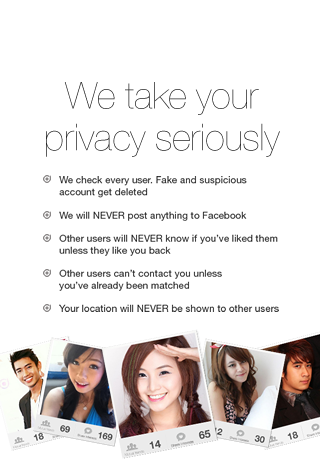
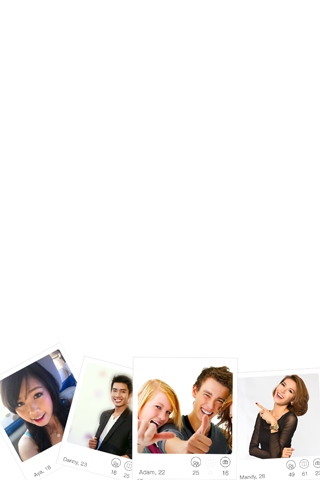
chinh sua trans text trong hind sang text thong thuong (info + tutorial)

diff --git a/oakclubbuild/TutorialViewController.m b/oakclubbuild/TutorialViewController.m
@@ -77,6 +77,7 @@
     }
 
     cycle.delegate = self;
+    [cycle refreshScrollView];
     [self.view addSubview:cycle];
     [self.view sendSubviewToBack:cycle];
     [self.view bringSubviewToFront:pageControl];
@@ -85,7 +86,8 @@
 
 -(void)cycleScrollViewDelegate:(CycleScrollView *)cycleScrollView customizeImageView:(TapDetectingImageView *)imageView atIndex:(int)index
 {
-    
+    [self transText:index :imageView];
+
 }
 
 - (void)didReceiveMemoryWarning
@@ -118,4 +120,123 @@
     [appDelegate.rootVC setLeftViewController:leftController];
     appDelegate.window.rootViewController = appDelegate.rootVC;
 }
+
+-(void) transText: (int) index: (TapDetectingImageView *)image {
+    
+    switch (index) {
+        case 0:
+        {
+            UILabel *content1Label = [[UILabel alloc] init];
+            UILabel *content2Label = [[UILabel alloc] init];
+            UILabel *content3Label = [[UILabel alloc] init];
+            
+            [content1Label setText: @""];
+            [content2Label setText: @""];
+            [content3Label setText: @""];
+            NSString *content1String = [@"Swipe photo right\nto LIKE a profile" localize];
+            NSString *content2String = [@"Swipe photo left\nto REJECT a profile" localize];
+            NSString *content3String = [@"Or just use REJECT / LIKE\nbuttons below" localize];
+            
+            
+            [content1Label setLineBreakMode: NSLineBreakByCharWrapping];
+            [content1Label setNumberOfLines: 2];
+            [content1Label setText: content1String];
+            [content1Label setFrame: CGRectMake((image.frame.size.width - 265)/2, 75, 260, 70)];
+            [content1Label setFont: [UIFont systemFontOfSize: 23]];
+            [content1Label setTextAlignment: NSTextAlignmentCenter];
+            [content1Label setBackgroundColor: [UIColor clearColor]];
+            [content1Label setTextColor: [UIColor whiteColor]];
+            
+            
+            [content2Label setLineBreakMode: NSLineBreakByCharWrapping];
+            [content2Label setNumberOfLines: 2];
+            [content2Label setText: content2String];
+            [content2Label setFrame: CGRectMake((image.frame.size.width - 224)/2, 175, 260, 70)];
+            [content2Label setFont: [UIFont systemFontOfSize: 23]];
+            [content2Label setTextAlignment: NSTextAlignmentCenter];
+            [content2Label setBackgroundColor: [UIColor clearColor]];
+            [content2Label setTextColor: [UIColor whiteColor]];
+            
+            
+            [content3Label setLineBreakMode: NSLineBreakByCharWrapping];
+            [content3Label setNumberOfLines: 2];
+            [content3Label setText: content3String];
+            [content3Label setFrame: CGRectMake((image.frame.size.width - 254)/2, 283, 260, 70)];
+            [content3Label setFont: [UIFont systemFontOfSize: 21]];
+            [content3Label setTextAlignment: NSTextAlignmentCenter];
+            [content3Label setBackgroundColor: [UIColor clearColor]];
+            [content3Label setTextColor: [UIColor whiteColor]];
+            
+            [image addSubview: content1Label];
+            [image addSubview: content2Label];
+            [image addSubview: content3Label];
+            
+            break;
+        }
+        case 1:
+        {
+            UILabel *content1Label = [[UILabel alloc] init];
+            UILabel *content2Label = [[UILabel alloc] init];
+            UILabel *content3Label = [[UILabel alloc] init];
+            [content1Label setText: @""];
+            [content2Label setText: @""];
+            [content3Label setText: @""];
+            
+            NSString *content1String = [@"If you match who someone\nyou can chat with them privately" localize];
+            [content2Label setLineBreakMode: NSLineBreakByCharWrapping];
+            [content2Label setNumberOfLines: 2];
+            [content2Label setText: content1String];
+            [content2Label setFrame: CGRectMake((image.frame.size.width - 280)/2, 180, 280, 70)];
+            [content2Label setFont: [UIFont systemFontOfSize: 18]];
+            [content2Label setTextAlignment: NSTextAlignmentCenter];
+            [content2Label setBackgroundColor: [UIColor clearColor]];
+            [content2Label setTextColor: [UIColor whiteColor]];
+            
+            [image addSubview: content1Label];
+            [image addSubview: content2Label];
+            [image addSubview: content3Label];
+            break;
+        }
+        case 2:
+        {
+            UILabel *content1Label = [[UILabel alloc] init];
+            UILabel *content2Label = [[UILabel alloc] init];
+            UILabel *content3Label = [[UILabel alloc] init];
+            [content1Label setText: @""];
+            [content2Label setText: @""];
+            [content3Label setText: @""];
+            
+            NSString *content1String = [@"You can edit your\nprofile here" localize];
+            NSString *content2String = [@"You can choose\nwho to see here" localize];
+            
+            [content1Label setLineBreakMode: NSLineBreakByCharWrapping];
+            [content1Label setNumberOfLines: 2];
+            [content1Label setText: content1String];
+            [content1Label setFrame: CGRectMake((image.frame.size.width)/2, 25, 260, 70)];
+            [content1Label setFont: [UIFont systemFontOfSize: 15]];
+            [content1Label setTextAlignment: NSTextAlignmentLeft];
+            [content1Label setBackgroundColor: [UIColor clearColor]];
+            [content1Label setTextColor: [UIColor whiteColor]];
+            
+            [content2Label setLineBreakMode: NSLineBreakByCharWrapping];
+            [content2Label setNumberOfLines: 2];
+            [content2Label setText: content2String];
+            [content2Label setFrame: CGRectMake((image.frame.size.width)/2, 80, 260, 70)];
+            [content2Label setFont: [UIFont systemFontOfSize: 15]];
+            [content2Label setTextAlignment: NSTextAlignmentLeft];
+            [content2Label setBackgroundColor: [UIColor clearColor]];
+            [content2Label setTextColor: [UIColor whiteColor]];
+            [image addSubview: content1Label];
+            [image addSubview: content2Label];
+            [image addSubview: content3Label];
+            
+            break;
+        }
+            
+            
+        default:
+            break;
+    }
+}
+
 @end

diff --git a/oakclubbuild/UAModelPanelEx.m b/oakclubbuild/UAModelPanelEx.m
@@ -20,7 +20,16 @@
 - (id) initWithFrame:(CGRect)frame andLoginPage:(SCLoginViewController *)login
 {
     if (self = [super initWithFrame:frame])
-    {   
+    {
+        NSString *titleString = [@"We take your\nprivacy seriously" localize];
+        NSString *content1String = [@"We check every user, Fake and suspicious\naccount get deleted" localize];
+        NSString *content2String = [@"We will NEVER post anything to Facebook" localize];
+        NSString *content3String = [@"Other users will NEVER know if you've liked them\nunless they like you back" localize];
+        NSString *content4String = [@"Other users can't contact you unless you've already been matched" localize];
+        NSString *content5String = [@"Your location will NEVER be shown to other users" localize];
+        
+                                
+        
         UIImage *contentImg = [UIImage imageNamed:@"screen"];
         self.backgroundColor = [UIColor colorWithPatternImage:contentImg];
         self.contentColor = [UIColor clearColor];
@@ -39,12 +48,60 @@
         {
             signInButton.frame = CGRectMake((self.frame.size.width - 254)/2, 35, 254, 40);
         }
-
+        
+        UILabel *titleLabel = [[UILabel alloc] init];
+        [titleLabel setLineBreakMode:NSLineBreakByWordWrapping];
+        [titleLabel setNumberOfLines: 2];
+        [titleLabel setFrame: CGRectMake((self.frame.size.width - 254)/2, 70, 260, 100)];
+        [titleLabel setText: titleString];
+        [titleLabel setTextAlignment: NSTextAlignmentCenter];
+        [titleLabel setFont:[UIFont systemFontOfSize: 24]];
+        
+        UILabel *content1Label = [[UILabel alloc] init];
+        [content1Label setLineBreakMode:NSLineBreakByWordWrapping];
+        [content1Label setNumberOfLines: 2];
+        [content1Label setFrame: CGRectMake((self.frame.size.width - 210)/2, 167, 260, 35)];
+        [content1Label setText: content1String];
+        [content1Label setFont: [UIFont systemFontOfSize: 11]];
+        
+        UILabel *content2Label = [[UILabel alloc] init];
+        [content2Label setLineBreakMode:NSLineBreakByWordWrapping];
+        [content2Label setNumberOfLines: 2];
+        [content2Label setFrame: CGRectMake((self.frame.size.width - 210)/2, 196, 260, 35)];
+        [content2Label setText: content2String];
+        [content2Label setFont: [UIFont systemFontOfSize: 11]];
+        
+        UILabel *content3Label = [[UILabel alloc] init];
+        [content3Label setLineBreakMode:NSLineBreakByWordWrapping];
+        [content3Label setNumberOfLines: 2];
+        [content3Label setFrame: CGRectMake((self.frame.size.width - 210)/2, 227, 260, 35)];
+        [content3Label setText: content3String];
+        [content3Label setFont: [UIFont systemFontOfSize: 11]];
+        
+        UILabel *content4Label = [[UILabel alloc] init];
+        [content4Label setLineBreakMode:NSLineBreakByWordWrapping];
+        [content4Label setNumberOfLines: 2];
+        [content4Label setFrame: CGRectMake((self.frame.size.width - 210)/2, 262, 260, 30)];
+        [content4Label setText: content4String];
+        [content4Label setFont: [UIFont systemFontOfSize: 11]];
+        
+        UILabel *content5Label = [[UILabel alloc] init];
+        [content5Label setLineBreakMode:NSLineBreakByWordWrapping];
+        [content5Label setNumberOfLines: 2];
+        [content5Label setFrame: CGRectMake((self.frame.size.width - 210)/2, 290, 260, 35)];
+        [content5Label setText: content5String];
+        [content5Label setFont: [UIFont systemFontOfSize: 11]];
        
         [signInButton addTarget:self action:@selector(loginTouched:) forControlEvents:UIControlEventTouchUpInside];
         [signInButton setTitle:@"Connect Privately" forState:UIControlStateNormal];
         [signInButton.titleLabel setFont:[UIFont systemFontOfSize:15]];
         
+        [self addSubview: titleLabel];
+        [self addSubview: content1Label];
+        [self addSubview: content2Label];
+        [self addSubview: content3Label];
+        [self addSubview: content4Label];
+        [self addSubview: content5Label];
         [self addSubview:signInButton];
         
         [self setBackgroundColor:[UIColor colorWithPatternImage:[UIImage imageNamed:[@"Info_background" localize]]]];
